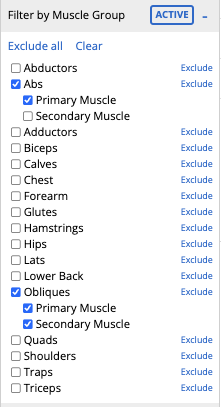
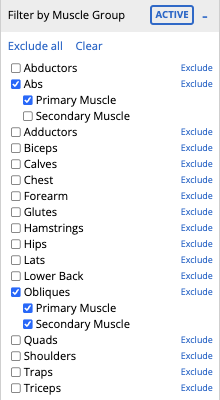
docs: add filter by equipment

diff --git a/README.md b/README.md
@@ -25,7 +25,7 @@ Available as a [Chrome extension][cws-url], [Firefox add-on][faddon-url], or [in
 ## Features
 <!-- TOC -->
   * [Improved exercise search](#improved-exercise-search)
-  * [Filter exercises by muscle group](#filter-exercises-by-muscle-group)
+  * [Filter exercises by muscle group or equipment](#filter-exercises-by-muscle-group)
   * [Preview an exercise's muscle group targets](#preview-an-exercises-muscle-group-targets)
   * [Apply the same exercise to multiple sets at once](#apply-the-same-exercise-to-multiple-sets-at-once)
   * [Exercise weight retention](#exercise-weight-retention)
@@ -46,7 +46,7 @@ The following demos showcase the improvements made to the original implementatio
 | Improved search for diacritics and special characters | <video height="300" src="https://github.com/Wassup789/garmin-connect-enhancements/assets/1007707/7acb2a4c-c9e1-40e4-b7a1-dfb7d7d7a648"></video><br><video height="300" src="https://github.com/Wassup789/garmin-connect-enhancements/assets/1007707/f5bbd4b0-d8b3-4429-b0b0-e9898dba4abb"></video> |
 
 
-### Filter exercises by muscle group
+### Filter exercises by muscle group or equipment
 
 Finding the most relevant workout exercise can be difficult within Garmin Connect, 
 as there could be many different names for the same workout and the exercise list from Garmin
@@ -55,7 +55,8 @@ may only have one of those variants.
 When searching for workouts, this enhancement allows the ability to find workouts that target specific
 muscle groups, find workouts that primarily or secondarily target a specific muscle group or exclude the muscle group entirely.
 
-<img src="assets/filter-muscle-group.png" width="221"/>
+<img src="assets/filter-muscle-group.png" width="220"/>
+<img src="assets/filter-equipment.png" width="220"/>
 
 ### Preview an exercise's muscle group targets
 
